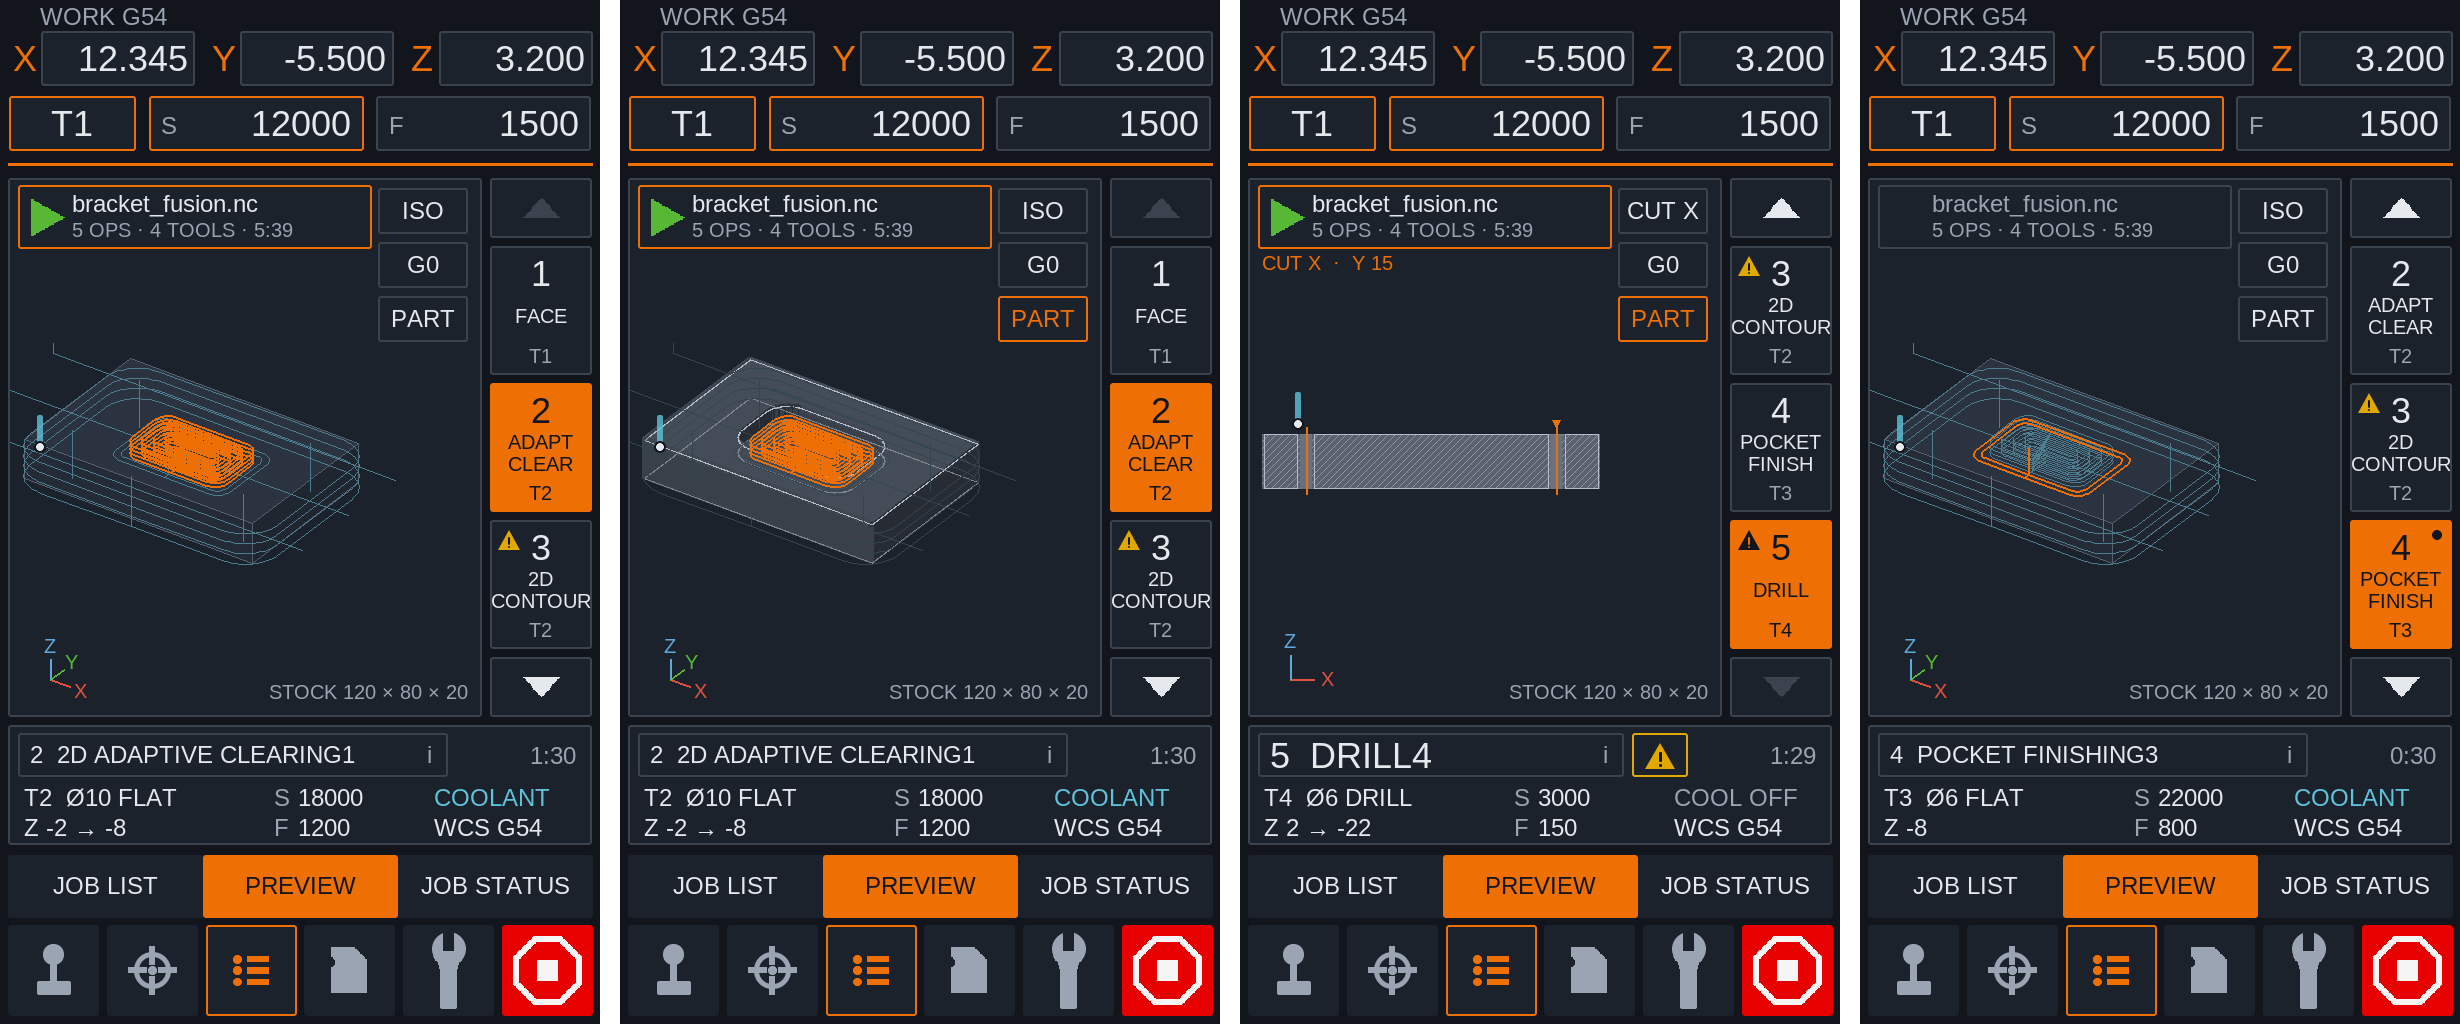
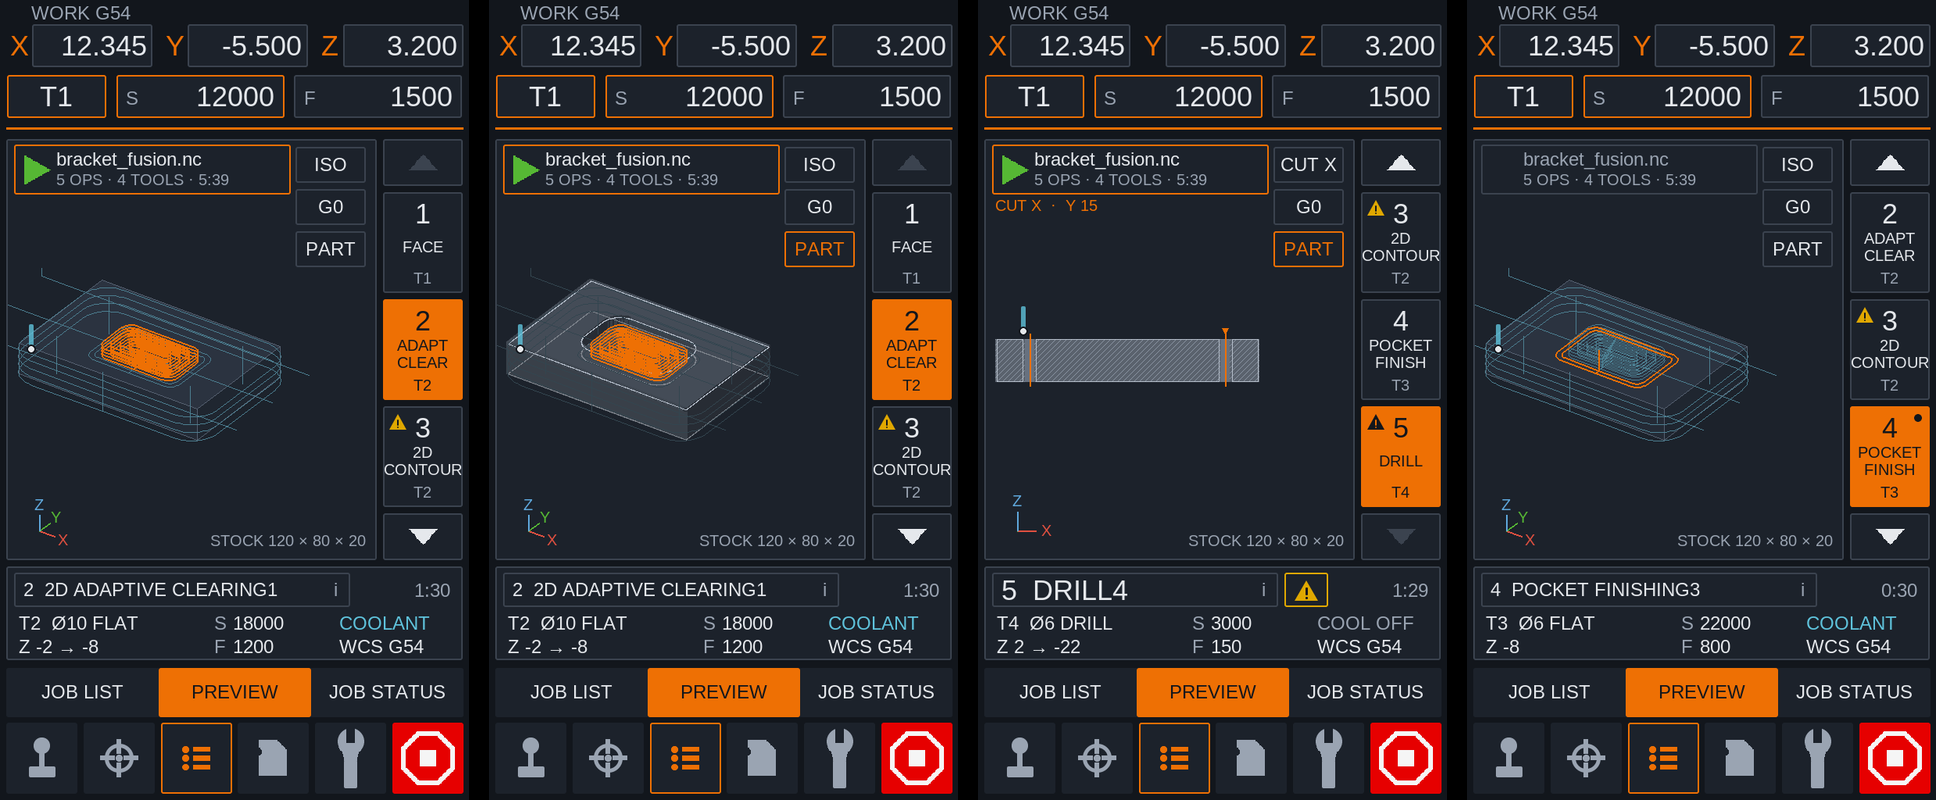
README: PanelDue CNC screenshots for the shared tabs, new PROBE and PREVIEW pictures
Claude-Session: https://claude.ai/code/session_01LGD63rhzbejS175yoaHdQJ

diff --git a/README.md b/README.md
@@ -9,32 +9,40 @@ DuetScreen is the touchscreen UI for Duet3D displays, built with LVGL. It runs o
 
 This fork adds a portrait CNC (mill / router) UI for the 600 x 1024 Duet3D screen, ported from the
 [PanelDue Modern UI CNC](https://github.com/M0ti0n/PanelDue_Modern_UI_CNC) firmware and built with
-`DUETSCREEN_CNC_UI=ON`. The screenshots are the CNC test references in [tests/ref_imgs/cnc](tests/ref_imgs/cnc);
-details are in [docs/CNC_UI.md](docs/CNC_UI.md).
+`DUETSCREEN_CNC_UI=ON`. The tabs are the same as on the PanelDue, so most pictures below are the PanelDue ones;
+PROBE and PREVIEW are taken from this firmware. Details are in [docs/CNC_UI.md](docs/CNC_UI.md).
 
 ### CONTROL
 
 Jogging by axis and step (RAPID / SLOW), homing, SAFE Z, XY0, coolant and custom actions.
 
-![CONTROL](docs/images/cnc/cnc_control.png)
+![CONTROL](docs/images/cnc/pd_cnc_control_13m.png)
 
-### WCS: OFFSETS, TOOLS, PROBE
+### WCS: OFFSETS, TOOLS
 
-Work offsets G54 to G59 (copy, shift, Z offset step), the tool table with LOAD / MEASURE / SET Z, and probing:
-origin picker, OUTSIDE / INSIDE switch, AUTO / SEMI-AUTO / MANUAL parameters and the PROBE button with the probe signal.
+Work offsets G54 to G59 (copy, shift, Z offset step) and the tool table with LOAD / MEASURE / SET Z.
 
-![WCS](docs/images/cnc/cnc_wcs.png)
+![WCS OFFSETS and TOOLS](docs/images/cnc/pd_cnc_wcs_offsets_tools.png)
+
+### WCS: PROBE
+
+Origin picker (corners, edges, centre, BORE, BOSS, Z TOP), OUTSIDE / INSIDE switch (the dot on the corner and
+edge symbols moves inside the line; BORE / BOSS / Z TOP lock it), AUTO / SEMI-AUTO / MANUAL parameters and one
+PROBE button that shows the probe: green ring = open, red disc = triggered. From left: AUTO outside, INSIDE,
+the AUTO progress popup, SEMI-AUTO.
+
+![PROBE](docs/images/cnc/cnc_probe.png)
 
 ### JOB: JOB STATUS, JOB LIST
 
-The running job with feed and spindle overrides, PAUSE / ABORT, and the file list with search.
+The running job with feed and spindle overrides, PAUSE / ABORT, and the file list.
 
-![JOB](docs/images/cnc/cnc_job.png)
+![JOB](docs/images/cnc/pd_cnc_job_tab_13m.png)
 
 ### JOB: PREVIEW
 
-Not on the PanelDue: the toolpath of the selected file in ISO / TOP / FRONT / SIDE views, the simulated PART,
-cut sections, operations with their tools and warnings, and the progress of the running job.
+Not on the PanelDue: the toolpath of the selected file, the simulated PART, cut sections, operations with their
+tools and warnings, and the progress of the running job. From left: ISO toolpath, PART, CUT X section, running job.
 
 ![PREVIEW](docs/images/cnc/cnc_preview.png)
 
@@ -42,19 +50,23 @@ cut sections, operations with their tools and warnings, and the progress of the 
 
 Macros as a list or a grid, with search.
 
-![MACROS](docs/images/cnc/cnc_macros.png)
+![MACROS](docs/images/cnc/pd_cnc_macros_search_13m.png)
 
-### SYSTEM: ALERT, CONSOLE
+### SYSTEM: ALERT, CONSOLE, SETTINGS
 
-Errors and warnings newest first, the console with G-code entry.
+Errors and warnings newest first, the console with G-code entry, and the settings pages.
 
-![SYSTEM](docs/images/cnc/cnc_system.png)
+![SYSTEM ALERT and CONSOLE](docs/images/cnc/pd_cnc_system_alert_console_13m.png)
 
-### SYSTEM: SETTINGS
+![SETTINGS](docs/images/cnc/pd_cnc_settings_13m.png)
 
-System, customization and jog direction pages.
+### Jog direction (SETTINGS page 3)
 
-![SETTINGS](docs/images/cnc/cnc_settings.png)
+Arrows and degree signs on the MOVE buttons, per axis.
+
+![AXIS / ARROW SETUP A](docs/images/cnc/PD-AXIS-ARROW_SETUP_A.png)
+![AXIS / ARROW SETUP B](docs/images/cnc/PD-AXIS-ARROW_SETUP_B.png)
+![AXIS / ARROW SETUP C](docs/images/cnc/PD-AXIS-ARROW_SETUP_C.png)
 
 ## UI preview (stock printer UI)
 
